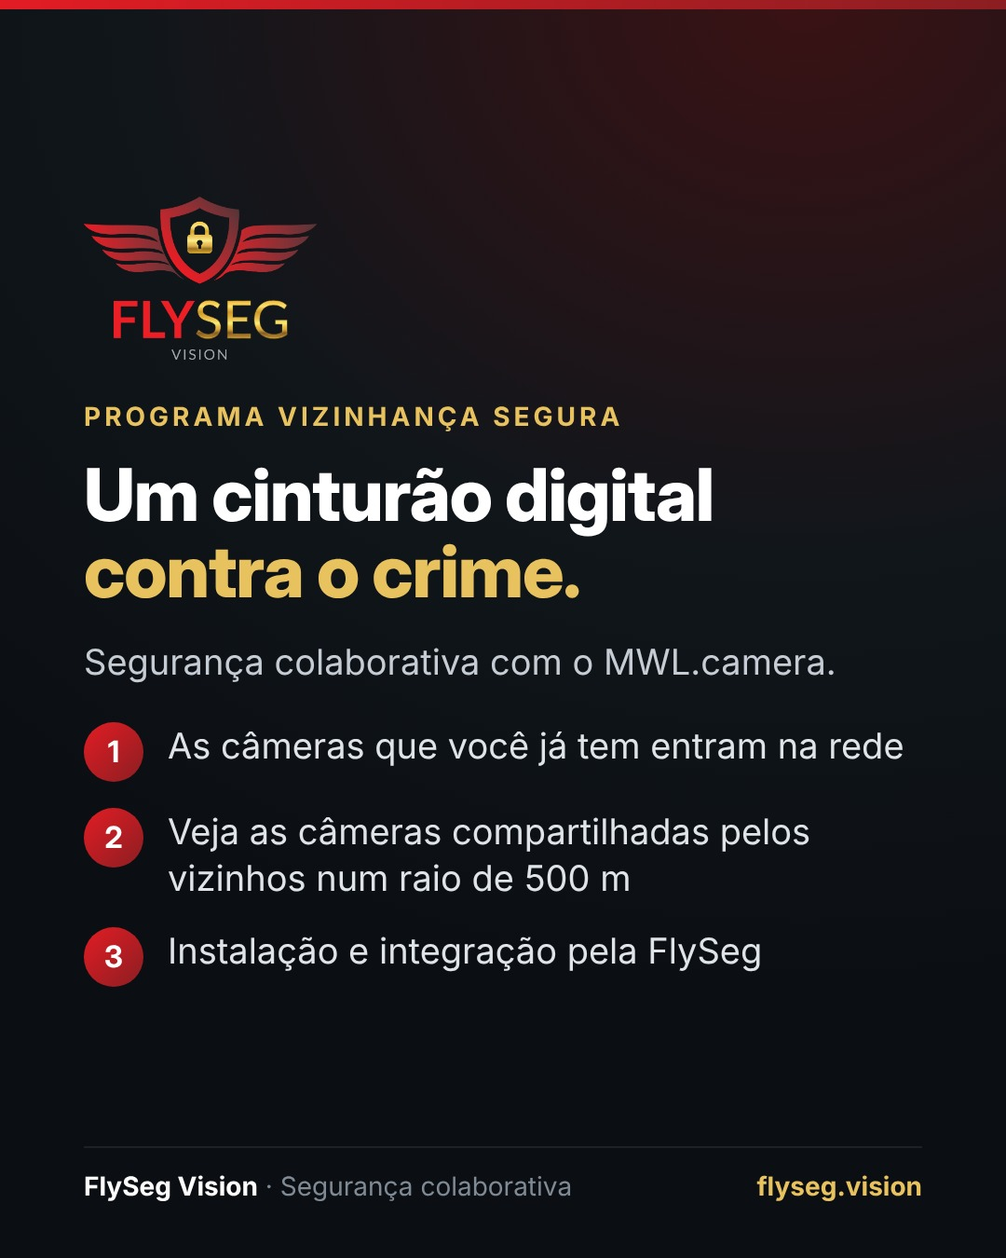
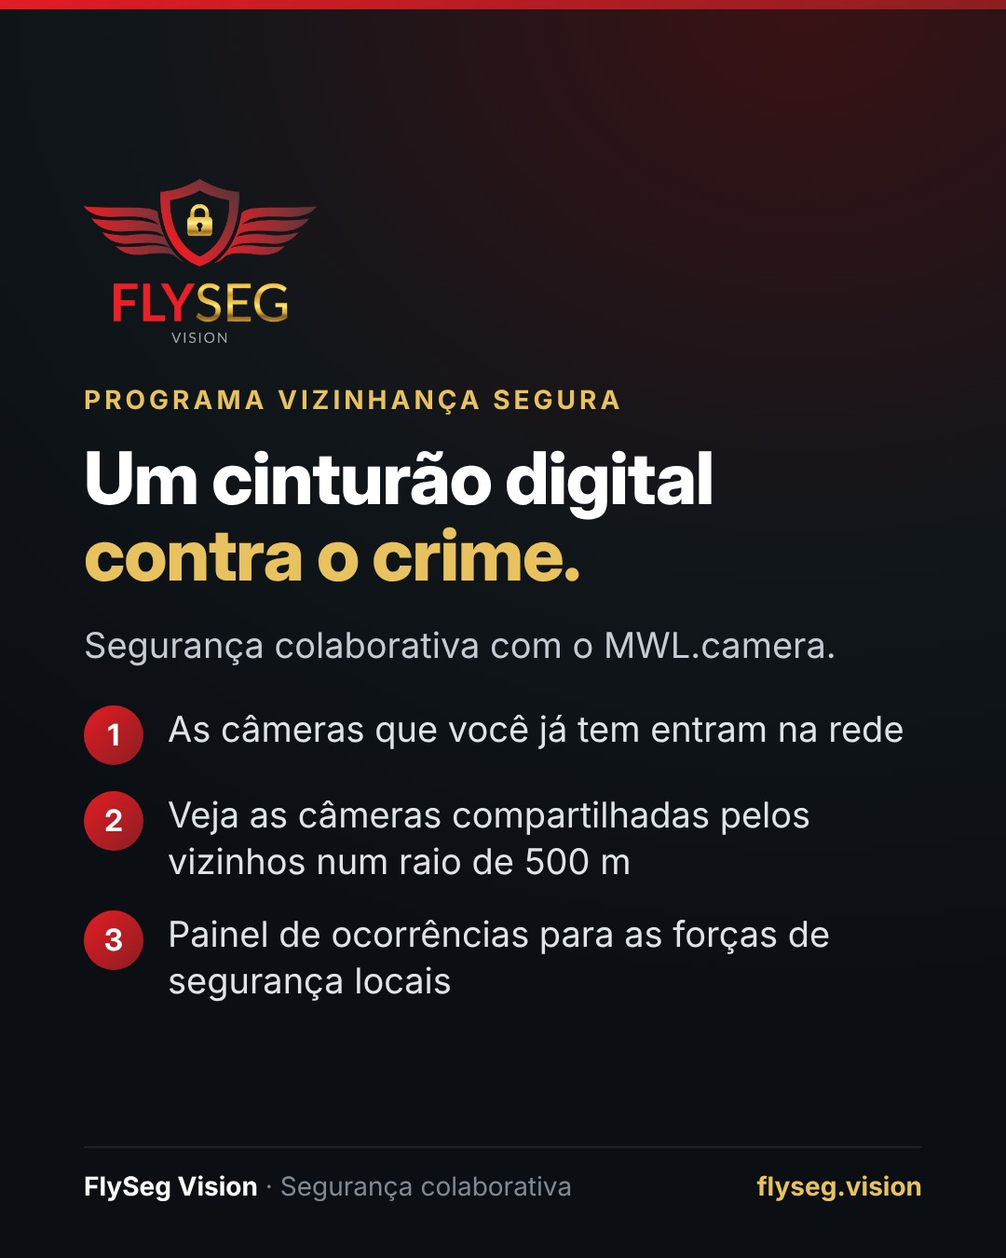
FlySeg: painel das forças de segurança do MWL.camera nos posts PVS e ODL e nos destaques
Claude-Session: https://claude.ai/code/session_013wqKux7qHbRAJMaH62mhbc

Changed region(s): [[0.0611, 0.3111, 0.8861, 0.8089], [0.0917, 0.1244, 0.3056, 0.28], [0.7944, 0.7156, 0.825, 0.7778]]

diff --git a/destaques-flyseg/story-odl-camera.html b/destaques-flyseg/story-odl-camera.html
@@ -8,5 +8,5 @@ h1{font-family:'Inter Display';font-weight:800;font-size:92px;line-height:1.04;l
 p{font-size:44px;line-height:1.4;color:#c5ccd3;margin-bottom:44px}
 ul{list-style:none;display:flex;flex-direction:column;gap:24px}
 li{font-size:40px;line-height:1.3;padding:26px 32px;background:rgba(233,194,96,.07);border:2px solid rgba(233,194,96,.35);border-left:10px solid #e31c24;border-radius:22px;color:#eef1f4}
-.cta{margin-top:auto;font-size:40px;font-weight:700;color:#e9c260}
-</style></head><body><div class="bar"></div><div class="w"><img class="logo" src="file:///home/claude/flycomp-midia/brand/flyseg-logo.png"><div class="ic"><svg width="100" height="100" viewBox="0 0 24 24" fill="none" stroke="#FFFFFF" stroke-width="1.6" stroke-linecap="round" stroke-linejoin="round"><path d="M16.75 12h3.632a1 1 0 0 1 .894 1.447l-2.034 4.069a1 1 0 0 1-1.708.134l-2.124-2.97"/><path d="M17.106 9.053a1 1 0 0 1 .447 1.341l-3.106 6.211a1 1 0 0 1-1.342.447L3.61 12.3a2.92 2.92 0 0 1-1.3-3.91L3.69 5.6a2.92 2.92 0 0 1 3.92-1.3z"/><path d="M2 19h3.76a2 2 0 0 0 1.8-1.1L9 15"/><path d="M2 21v-4"/><path d="M7 9h.01"/></svg></div><h1>ODL<span>.camera</span></h1><p>A segurança da rua num conjunto completo, criado pela FlySeg.</p><ul><li>Totem com visão 360° e versão fachada</li><li>Sirene e giroflex integrados</li><li>Full HD colorido à noite e 7 dias de gravação</li></ul><div class="cta">Fale com a gente pelo direct</div></div></body></html>
+.cta{margin-top:auto;padding-top:40px;font-size:40px;font-weight:700;color:#e9c260}
+</style></head><body><div class="bar"></div><div class="w"><img class="logo" src="file:///home/claude/flycomp-midia/brand/flyseg-logo.png"><div class="ic"><svg width="100" height="100" viewBox="0 0 24 24" fill="none" stroke="#FFFFFF" stroke-width="1.6" stroke-linecap="round" stroke-linejoin="round"><path d="M16.75 12h3.632a1 1 0 0 1 .894 1.447l-2.034 4.069a1 1 0 0 1-1.708.134l-2.124-2.97"/><path d="M17.106 9.053a1 1 0 0 1 .447 1.341l-3.106 6.211a1 1 0 0 1-1.342.447L3.61 12.3a2.92 2.92 0 0 1-1.3-3.91L3.69 5.6a2.92 2.92 0 0 1 3.92-1.3z"/><path d="M2 19h3.76a2 2 0 0 0 1.8-1.1L9 15"/><path d="M2 21v-4"/><path d="M7 9h.01"/></svg></div><h1>ODL<span>.camera</span></h1><p>A segurança da rua num conjunto completo, criado pela FlySeg.</p><ul><li>Totem com visão 360° e versão fachada</li><li>Sirene, giroflex e botão de emergência</li><li>Ocorrências no painel das forças de segurança</li></ul><div class="cta">Fale com a gente pelo direct</div></div></body></html>

diff --git a/social-flyseg/2026-11-seguranca-colaborativa/story.html b/social-flyseg/2026-11-seguranca-colaborativa/story.html
@@ -8,4 +8,4 @@ ol{list-style:none;display:flex;flex-direction:column}
 li{display:flex;align-items:flex-start;color:#dfe4e9;line-height:1.32}
 li b{border-radius:50%;background:linear-gradient(135deg,#e31c24,#8b1e22);display:flex;align-items:center;justify-content:center;color:#fff;font-family:'Inter Display';flex-shrink:0}
 .ft{position:absolute;display:flex;justify-content:space-between;align-items:center;color:#7f8a94;border-top:2px solid rgba(255,255,255,.08)}.ft b{color:#fff}.ft .g{color:#e9c260;font-weight:700}body{width:1080px;height:1920px}.w{left:90px;right:90px;top:250px;bottom:370px;justify-content:center}.logo{width:300px}.eb{font-size:32px}h1{font-size:96px}.s{font-size:44px}
-ol{gap:34px}li{gap:28px;font-size:44px}li b{width:76px;height:76px;font-size:38px}.cta{margin-top:56px;align-self:flex-start;padding:28px 46px;border-radius:20px;background:linear-gradient(90deg,#e31c24,#8b1e22);font-size:42px;font-weight:700}</style></head><body><div class="bar"></div><div class="w"><img class="logo" src="file:///home/claude/flyseg-posts/logo.png"><div class="eb">Programa Vizinhança Segura</div><h1>Um cinturão digital <span>contra o crime.</span></h1><p class="s">Segurança colaborativa com o MWL.camera.</p><ol><li><b>1</b><span>As câmeras que você já tem entram na rede</span></li><li><b>2</b><span>Veja as câmeras compartilhadas pelos vizinhos num raio de 500 m</span></li><li><b>3</b><span>Instalação e integração pela FlySeg</span></li></ol><div class="cta">Fale com a gente pelo direct</div></div></body></html>
+ol{gap:34px}li{gap:28px;font-size:44px}li b{width:76px;height:76px;font-size:38px}.cta{margin-top:56px;align-self:flex-start;padding:28px 46px;border-radius:20px;background:linear-gradient(90deg,#e31c24,#8b1e22);font-size:42px;font-weight:700}</style></head><body><div class="bar"></div><div class="w"><img class="logo" src="file:///home/claude/flyseg-posts/logo.png"><div class="eb">Programa Vizinhança Segura</div><h1>Um cinturão digital <span>contra o crime.</span></h1><p class="s">Segurança colaborativa com o MWL.camera.</p><ol><li><b>1</b><span>As câmeras que você já tem entram na rede</span></li><li><b>2</b><span>Veja as câmeras compartilhadas pelos vizinhos num raio de 500 m</span></li><li><b>3</b><span>Painel de ocorrências para as forças de segurança locais</span></li></ol><div class="cta">Fale com a gente pelo direct</div></div></body></html>

diff --git a/social-flyseg/2026-11-odl-camera/story.html b/social-flyseg/2026-11-odl-camera/story.html
@@ -8,4 +8,4 @@ ol{list-style:none;display:flex;flex-direction:column}
 li{display:flex;align-items:flex-start;color:#dfe4e9;line-height:1.32}
 li b{border-radius:50%;background:linear-gradient(135deg,#e31c24,#8b1e22);display:flex;align-items:center;justify-content:center;color:#fff;font-family:'Inter Display';flex-shrink:0}
 .ft{position:absolute;display:flex;justify-content:space-between;align-items:center;color:#7f8a94;border-top:2px solid rgba(255,255,255,.08)}.ft b{color:#fff}.ft .g{color:#e9c260;font-weight:700}body{width:1080px;height:1920px}.w{left:90px;right:90px;top:250px;bottom:370px;justify-content:center}.logo{width:300px}.eb{font-size:32px}h1{font-size:96px}.s{font-size:44px}
-ol{gap:34px}li{gap:28px;font-size:44px}li b{width:76px;height:76px;font-size:38px}.cta{margin-top:56px;align-self:flex-start;padding:28px 46px;border-radius:20px;background:linear-gradient(90deg,#e31c24,#8b1e22);font-size:42px;font-weight:700}</style></head><body><div class="bar"></div><div class="w"><img class="logo" src="file:///home/claude/flyseg-posts/logo.png"><div class="eb">ODL.camera</div><h1>A segurança da rua <span>num conjunto completo.</span></h1><p class="s">Totem com visão 360° e versão fachada, criados pela FlySeg.</p><ol><li><b>1</b><span>Sirene e giroflex integrados</span></li><li><b>2</b><span>Câmeras Full HD coloridas à noite e 7 dias de gravação</span></li><li><b>3</b><span>Integrado ao MWL.camera</span></li></ol><div class="cta">Fale com a gente pelo direct</div></div></body></html>
+ol{gap:34px}li{gap:28px;font-size:44px}li b{width:76px;height:76px;font-size:38px}.cta{margin-top:56px;align-self:flex-start;padding:28px 46px;border-radius:20px;background:linear-gradient(90deg,#e31c24,#8b1e22);font-size:42px;font-weight:700}</style></head><body><div class="bar"></div><div class="w"><img class="logo" src="file:///home/claude/flyseg-posts/logo.png"><div class="eb">ODL.camera</div><h1>A segurança da rua <span>num conjunto completo.</span></h1><p class="s">Totem com visão 360° e versão fachada, criados pela FlySeg.</p><ol><li><b>1</b><span>Sirene e giroflex integrados</span></li><li><b>2</b><span>Câmeras Full HD coloridas à noite e 7 dias de gravação</span></li><li><b>3</b><span>Ocorrências no MWL.camera e no painel das forças de segurança</span></li></ol><div class="cta">Fale com a gente pelo direct</div></div></body></html>

diff --git a/social-flyseg/2026-11-seguranca-colaborativa/resumo.html b/social-flyseg/2026-11-seguranca-colaborativa/resumo.html
@@ -8,4 +8,4 @@ ol{list-style:none;display:flex;flex-direction:column}
 li{display:flex;align-items:flex-start;color:#dfe4e9;line-height:1.32}
 li b{border-radius:50%;background:linear-gradient(135deg,#e31c24,#8b1e22);display:flex;align-items:center;justify-content:center;color:#fff;font-family:'Inter Display';flex-shrink:0}
 .ft{position:absolute;display:flex;justify-content:space-between;align-items:center;color:#7f8a94;border-top:2px solid rgba(255,255,255,.08)}.ft b{color:#fff}.ft .g{color:#e9c260;font-weight:700}body{width:1080px;height:1350px}.w{left:90px;right:90px;top:90px;bottom:170px;justify-content:center}.eb{font-size:28px}h1{font-size:78px}.s{font-size:38px}
-ol{gap:28px}li{gap:26px;font-size:38px}li b{width:64px;height:64px;font-size:32px}.ft{left:90px;right:90px;bottom:60px;padding-top:24px;font-size:28px}</style></head><body><div class="bar"></div><div class="w"><img class="logo" src="file:///home/claude/flyseg-posts/logo.png"><div class="eb">Programa Vizinhança Segura</div><h1>Um cinturão digital <span>contra o crime.</span></h1><p class="s">Segurança colaborativa com o MWL.camera.</p><ol><li><b>1</b><span>As câmeras que você já tem entram na rede</span></li><li><b>2</b><span>Veja as câmeras compartilhadas pelos vizinhos num raio de 500 m</span></li><li><b>3</b><span>Instalação e integração pela FlySeg</span></li></ol></div><div class="ft"><span><b>FlySeg Vision</b> · Segurança colaborativa</span><span class="g">flyseg.vision</span></div></body></html>
+ol{gap:28px}li{gap:26px;font-size:38px}li b{width:64px;height:64px;font-size:32px}.ft{left:90px;right:90px;bottom:60px;padding-top:24px;font-size:28px}</style></head><body><div class="bar"></div><div class="w"><img class="logo" src="file:///home/claude/flyseg-posts/logo.png"><div class="eb">Programa Vizinhança Segura</div><h1>Um cinturão digital <span>contra o crime.</span></h1><p class="s">Segurança colaborativa com o MWL.camera.</p><ol><li><b>1</b><span>As câmeras que você já tem entram na rede</span></li><li><b>2</b><span>Veja as câmeras compartilhadas pelos vizinhos num raio de 500 m</span></li><li><b>3</b><span>Painel de ocorrências para as forças de segurança locais</span></li></ol></div><div class="ft"><span><b>FlySeg Vision</b> · Segurança colaborativa</span><span class="g">flyseg.vision</span></div></body></html>

diff --git a/social-flyseg/2026-11-odl-camera/resumo.html b/social-flyseg/2026-11-odl-camera/resumo.html
@@ -8,4 +8,4 @@ ol{list-style:none;display:flex;flex-direction:column}
 li{display:flex;align-items:flex-start;color:#dfe4e9;line-height:1.32}
 li b{border-radius:50%;background:linear-gradient(135deg,#e31c24,#8b1e22);display:flex;align-items:center;justify-content:center;color:#fff;font-family:'Inter Display';flex-shrink:0}
 .ft{position:absolute;display:flex;justify-content:space-between;align-items:center;color:#7f8a94;border-top:2px solid rgba(255,255,255,.08)}.ft b{color:#fff}.ft .g{color:#e9c260;font-weight:700}body{width:1080px;height:1350px}.w{left:90px;right:90px;top:90px;bottom:170px;justify-content:center}.eb{font-size:28px}h1{font-size:78px}.s{font-size:38px}
-ol{gap:28px}li{gap:26px;font-size:38px}li b{width:64px;height:64px;font-size:32px}.ft{left:90px;right:90px;bottom:60px;padding-top:24px;font-size:28px}</style></head><body><div class="bar"></div><div class="w"><img class="logo" src="file:///home/claude/flyseg-posts/logo.png"><div class="eb">ODL.camera</div><h1>A segurança da rua <span>num conjunto completo.</span></h1><p class="s">Totem com visão 360° e versão fachada, criados pela FlySeg.</p><ol><li><b>1</b><span>Sirene e giroflex integrados</span></li><li><b>2</b><span>Câmeras Full HD coloridas à noite e 7 dias de gravação</span></li><li><b>3</b><span>Integrado ao MWL.camera</span></li></ol></div><div class="ft"><span><b>FlySeg Vision</b> · Segurança colaborativa</span><span class="g">flyseg.vision</span></div></body></html>
+ol{gap:28px}li{gap:26px;font-size:38px}li b{width:64px;height:64px;font-size:32px}.ft{left:90px;right:90px;bottom:60px;padding-top:24px;font-size:28px}</style></head><body><div class="bar"></div><div class="w"><img class="logo" src="file:///home/claude/flyseg-posts/logo.png"><div class="eb">ODL.camera</div><h1>A segurança da rua <span>num conjunto completo.</span></h1><p class="s">Totem com visão 360° e versão fachada, criados pela FlySeg.</p><ol><li><b>1</b><span>Sirene e giroflex integrados</span></li><li><b>2</b><span>Câmeras Full HD coloridas à noite e 7 dias de gravação</span></li><li><b>3</b><span>Ocorrências no MWL.camera e no painel das forças de segurança</span></li></ol></div><div class="ft"><span><b>FlySeg Vision</b> · Segurança colaborativa</span><span class="g">flyseg.vision</span></div></body></html>

diff --git a/destaques-flyseg/story-vizinhanca-segura.html b/destaques-flyseg/story-vizinhanca-segura.html
@@ -8,5 +8,5 @@ h1{font-family:'Inter Display';font-weight:800;font-size:92px;line-height:1.04;l
 p{font-size:44px;line-height:1.4;color:#c5ccd3;margin-bottom:44px}
 ul{list-style:none;display:flex;flex-direction:column;gap:24px}
 li{font-size:40px;line-height:1.3;padding:26px 32px;background:rgba(233,194,96,.07);border:2px solid rgba(233,194,96,.35);border-left:10px solid #e31c24;border-radius:22px;color:#eef1f4}
-.cta{margin-top:auto;font-size:40px;font-weight:700;color:#e9c260}
-</style></head><body><div class="bar"></div><div class="w"><img class="logo" src="file:///home/claude/flycomp-midia/brand/flyseg-logo.png"><div class="ic"><svg width="100" height="100" viewBox="0 0 24 24" fill="none" stroke="#FFFFFF" stroke-width="1.6" stroke-linecap="round" stroke-linejoin="round"><path d="M16 21v-2a4 4 0 0 0-4-4H6a4 4 0 0 0-4 4v2"/><circle cx="9" cy="7" r="4"/><path d="M22 21v-2a4 4 0 0 0-3-3.87"/><path d="M16 3.13a4 4 0 0 1 0 7.75"/></svg></div><h1>Programa <span>Vizinhança Segura</span></h1><p>Um cinturão digital contra o crime, rua por rua.</p><ul><li>As câmeras que você já tem entram no MWL.camera</li><li>Veja as câmeras dos vizinhos num raio de 500 m</li><li>Instalação e integração pela FlySeg</li></ul><div class="cta">Fale com a gente pelo direct</div></div></body></html>
+.cta{margin-top:auto;padding-top:40px;font-size:40px;font-weight:700;color:#e9c260}
+</style></head><body><div class="bar"></div><div class="w"><img class="logo" src="file:///home/claude/flycomp-midia/brand/flyseg-logo.png"><div class="ic"><svg width="100" height="100" viewBox="0 0 24 24" fill="none" stroke="#FFFFFF" stroke-width="1.6" stroke-linecap="round" stroke-linejoin="round"><path d="M16 21v-2a4 4 0 0 0-4-4H6a4 4 0 0 0-4 4v2"/><circle cx="9" cy="7" r="4"/><path d="M22 21v-2a4 4 0 0 0-3-3.87"/><path d="M16 3.13a4 4 0 0 1 0 7.75"/></svg></div><h1>Programa <span>Vizinhança Segura</span></h1><p>Um cinturão digital contra o crime, rua por rua.</p><ul><li>As câmeras que você já tem entram no MWL.camera</li><li>Veja as câmeras dos vizinhos num raio de 500 m</li><li>Painel para as forças de segurança locais</li></ul><div class="cta">Fale com a gente pelo direct</div></div></body></html>

diff --git a/social-flyseg/2026-11-odl-camera/slide4.html b/social-flyseg/2026-11-odl-camera/slide4.html
@@ -23,4 +23,4 @@ ol li b{flex:0 0 74px;height:74px;border-radius:50%;background:linear-gradient(1
 .cta{display:inline-block;margin-top:50px;padding:26px 44px;border-radius:18px;background:linear-gradient(90deg,#e31c24,#8b1e22);font-size:40px;font-weight:700}
 .center{justify-content:center}
 </style></head><body><div class="bar"></div>
-<div class="wrap"><div class="eyebrow">Na prática</div><h2>Resposta na hora.</h2><ol><li><b>1</b><span>O botão de emergência aciona sirene e giroflex no local.</span></li><li><b>2</b><span>A ocorrência entra no <span class="gold">MWL.camera</span> com a gravação anexada.</span></li><li><b>3</b><span>Você e seus vizinhos acompanham tudo pelo <span class="gold">celular</span>.</span></li></ol></div><div class="foot"><span><b>FlySeg Vision</b> · Segurança colaborativa</span><span class="sw">Arraste →&nbsp;&nbsp;4/5</span></div></body></html>
+<div class="wrap"><div class="eyebrow">Na prática</div><h2>Resposta na hora.</h2><ol><li><b>1</b><span>O botão de emergência aciona sirene e giroflex no local.</span></li><li><b>2</b><span>A ocorrência entra no <span class="gold">MWL.camera</span> com a gravação anexada.</span></li><li><b>3</b><span>A ocorrência aparece no painel das <span class="gold">forças de segurança</span> da região que aderiram.</span></li></ol></div><div class="foot"><span><b>FlySeg Vision</b> · Segurança colaborativa</span><span class="sw">Arraste →&nbsp;&nbsp;4/5</span></div></body></html>

diff --git a/destaques-flyseg/story-sobre.html b/destaques-flyseg/story-sobre.html
@@ -8,5 +8,5 @@ h1{font-family:'Inter Display';font-weight:800;font-size:92px;line-height:1.04;l
 p{font-size:44px;line-height:1.4;color:#c5ccd3;margin-bottom:44px}
 ul{list-style:none;display:flex;flex-direction:column;gap:24px}
 li{font-size:40px;line-height:1.3;padding:26px 32px;background:rgba(233,194,96,.07);border:2px solid rgba(233,194,96,.35);border-left:10px solid #e31c24;border-radius:22px;color:#eef1f4}
-.cta{margin-top:auto;font-size:40px;font-weight:700;color:#e9c260}
+.cta{margin-top:auto;padding-top:40px;font-size:40px;font-weight:700;color:#e9c260}
 </style></head><body><div class="bar"></div><div class="w"><img class="logo" src="file:///home/claude/flycomp-midia/brand/flyseg-logo.png"><div class="ic"><svg width="100" height="100" viewBox="0 0 24 24" fill="none" stroke="#FFFFFF" stroke-width="1.6" stroke-linecap="round" stroke-linejoin="round"><path d="M20 13c0 5-3.5 7.5-7.66 8.95a1 1 0 0 1-.67-.01C7.5 20.5 4 18 4 13V6a1 1 0 0 1 1-1c2 0 4.5-1.2 6.24-2.72a1.17 1.17 0 0 1 1.52 0C14.51 3.81 17 5 19 5a1 1 0 0 1 1 1z"/><path d="m9 12 2 2 4-4"/></svg></div><h1>Sobre a <span>FlySeg</span></h1><p>Segurança colaborativa de verdade.</p><ul><li>Pioneira na integração com o MWL.camera</li><li>Criadora do ODL.camera</li><li>Venda, instalação e locação</li></ul><div class="cta">Fale com a gente pelo direct</div></div></body></html>

diff --git a/destaques-flyseg/story-contato.html b/destaques-flyseg/story-contato.html
@@ -8,5 +8,5 @@ h1{font-family:'Inter Display';font-weight:800;font-size:92px;line-height:1.04;l
 p{font-size:44px;line-height:1.4;color:#c5ccd3;margin-bottom:44px}
 ul{list-style:none;display:flex;flex-direction:column;gap:24px}
 li{font-size:40px;line-height:1.3;padding:26px 32px;background:rgba(233,194,96,.07);border:2px solid rgba(233,194,96,.35);border-left:10px solid #e31c24;border-radius:22px;color:#eef1f4}
-.cta{margin-top:auto;font-size:40px;font-weight:700;color:#e9c260}
+.cta{margin-top:auto;padding-top:40px;font-size:40px;font-weight:700;color:#e9c260}
 </style></head><body><div class="bar"></div><div class="w"><img class="logo" src="file:///home/claude/flycomp-midia/brand/flyseg-logo.png"><div class="ic"><svg width="100" height="100" viewBox="0 0 24 24" fill="none" stroke="#FFFFFF" stroke-width="1.6" stroke-linecap="round" stroke-linejoin="round"><path d="M7.9 20A9 9 0 1 0 4 16.1L2 22Z"/></svg></div><h1>Fale com <span>a gente</span></h1><p>Atendimento comercial da FlySeg Vision.</p><ul><li>Direct aqui do Instagram</li><li>WhatsApp (11) 4283-7330</li><li>flyseg.vision</li></ul><div class="cta"></div></div></body></html>

diff --git a/destaques-flyseg/gerar.py b/destaques-flyseg/gerar.py
@@ -11,8 +11,8 @@ I={
 }
 def svg(k,size,color): return f'<svg width="{size}" height="{size}" viewBox="0 0 24 24" fill="none" stroke="{color}" stroke-width="1.6" stroke-linecap="round" stroke-linejoin="round">{I[k]}</svg>'
 D=[
-("vizinhanca-segura","users","Programa <span>Vizinhança Segura</span>","Um cinturão digital contra o crime, rua por rua.",["As câmeras que você já tem entram no MWL.camera","Veja as câmeras dos vizinhos num raio de 500 m","Instalação e integração pela FlySeg"]),
-("odl-camera","cctv","ODL<span>.camera</span>","A segurança da rua num conjunto completo, criado pela FlySeg.",["Totem com visão 360° e versão fachada","Sirene e giroflex integrados","Full HD colorido à noite e 7 dias de gravação"]),
+("vizinhanca-segura","users","Programa <span>Vizinhança Segura</span>","Um cinturão digital contra o crime, rua por rua.",["As câmeras que você já tem entram no MWL.camera","Veja as câmeras dos vizinhos num raio de 500 m","Painel para as forças de segurança locais"]),
+("odl-camera","cctv","ODL<span>.camera</span>","A segurança da rua num conjunto completo, criado pela FlySeg.",["Totem com visão 360° e versão fachada","Sirene, giroflex e botão de emergência","Ocorrências no painel das forças de segurança"]),
 ("sobre","shield","Sobre a <span>FlySeg</span>","Segurança colaborativa de verdade.",["Pioneira na integração com o MWL.camera","Criadora do ODL.camera","Venda, instalação e locação"]),
 ("contato","chat","Fale com <span>a gente</span>","Atendimento comercial da FlySeg Vision.",["Direct aqui do Instagram","WhatsApp (11) 4283-7330","flyseg.vision"]),
 ]
@@ -28,7 +28,7 @@ h1{font-family:'Inter Display';font-weight:800;font-size:92px;line-height:1.04;l
 p{font-size:44px;line-height:1.4;color:#c5ccd3;margin-bottom:44px}
 ul{list-style:none;display:flex;flex-direction:column;gap:24px}
 li{font-size:40px;line-height:1.3;padding:26px 32px;background:rgba(233,194,96,.07);border:2px solid rgba(233,194,96,.35);border-left:10px solid #e31c24;border-radius:22px;color:#eef1f4}
-.cta{margin-top:auto;font-size:40px;font-weight:700;color:#e9c260}
+.cta{margin-top:auto;padding-top:40px;font-size:40px;font-weight:700;color:#e9c260}
 </style></head><body><div class="bar"></div><div class="w"><img class="logo" src="{LOGO}"><div class="ic">{ICON}</div><h1>{T}</h1><p>{P}</p><ul>{LI}</ul><div class="cta">{CTA}</div></div></body></html>"""
 async def main():
     async with async_playwright() as p:

diff --git a/social-flyseg/gerar.py b/social-flyseg/gerar.py
@@ -47,7 +47,7 @@ POSTS = {
   f'<img class="logo" src="{LOGO}"><div class="eyebrow">ODL.camera</div><h1>A segurança da rua <span class="gold">num conjunto completo.</span></h1><p class="sub">Totem e versão fachada criados pela FlySeg, integrados ao MWL.camera.</p>',
   '<div class="eyebrow">Duas versões</div><h2>Para a calçada e para a fachada.</h2><div class="card"><h3>Totem: visão 360°</h3><p>3 câmeras simultâneas e mais uma dedicada à calçada e aos portões.</p></div><div class="card"><h3>Fachada (box)</h3><p>2 câmeras com áudio bidirecional, no formato do seu imóvel.</p></div>',
   '<div class="eyebrow">Sempre no conjunto</div><h2>Feito para inibir.</h2><ol><li><b>1</b><span><span class="gold">Sirene e giroflex</span> integrados.</span></li><li><b>2</b><span>Câmeras <span class="gold">Full HD</span> que filmam colorido à noite.</span></li><li><b>3</b><span><span class="gold">7 dias</span> de gravação.</span></li><li><b>4</b><span>Iluminação âmbar à noite. Nobreak opcional.</span></li></ol>',
-  '<div class="eyebrow">Na prática</div><h2>Resposta na hora.</h2><ol><li><b>1</b><span>O botão de emergência aciona sirene e giroflex no local.</span></li><li><b>2</b><span>A ocorrência entra no <span class="gold">MWL.camera</span> com a gravação anexada.</span></li><li><b>3</b><span>Você e seus vizinhos acompanham tudo pelo <span class="gold">celular</span>.</span></li></ol>',
+  '<div class="eyebrow">Na prática</div><h2>Resposta na hora.</h2><ol><li><b>1</b><span>O botão de emergência aciona sirene e giroflex no local.</span></li><li><b>2</b><span>A ocorrência entra no <span class="gold">MWL.camera</span> com a gravação anexada.</span></li><li><b>3</b><span>A ocorrência aparece no painel das <span class="gold">forças de segurança</span> da região que aderiram.</span></li></ol>',
   f'<div class="center" style="display:flex;flex-direction:column;height:100%"><img class="logo big" src="{LOGO}"><h2>Sem custo de equipamento.</h2><p class="t">Assinatura mensal com o conjunto completo instalado.</p><span class="cta">Fale com a gente pelo direct</span></div>',
  ],
  "vision-soc-integradores": [

diff --git a/social-flyseg/gerar_extra.py b/social-flyseg/gerar_extra.py
@@ -16,8 +16,8 @@ ol{gap:28px}li{gap:26px;font-size:38px}li b{width:64px;height:64px;font-size:32p
 STORY=CSS_BASE+"""body{width:1080px;height:1920px}.w{left:90px;right:90px;top:250px;bottom:370px;justify-content:center}.logo{width:300px}.eb{font-size:32px}h1{font-size:96px}.s{font-size:44px}
 ol{gap:34px}li{gap:28px;font-size:44px}li b{width:76px;height:76px;font-size:38px}.cta{margin-top:56px;align-self:flex-start;padding:28px 46px;border-radius:20px;background:linear-gradient(90deg,#e31c24,#8b1e22);font-size:42px;font-weight:700}"""
 POSTS={
-"seguranca-colaborativa":("Programa Vizinhança Segura","Um cinturão digital <span>contra o crime.</span>","Segurança colaborativa com o MWL.camera.",["As câmeras que você já tem entram na rede","Veja as câmeras compartilhadas pelos vizinhos num raio de 500 m","Instalação e integração pela FlySeg"]),
-"odl-camera":("ODL.camera","A segurança da rua <span>num conjunto completo.</span>","Totem com visão 360° e versão fachada, criados pela FlySeg.",["Sirene e giroflex integrados","Câmeras Full HD coloridas à noite e 7 dias de gravação","Integrado ao MWL.camera"]),
+"seguranca-colaborativa":("Programa Vizinhança Segura","Um cinturão digital <span>contra o crime.</span>","Segurança colaborativa com o MWL.camera.",["As câmeras que você já tem entram na rede","Veja as câmeras compartilhadas pelos vizinhos num raio de 500 m","Painel de ocorrências para as forças de segurança locais"]),
+"odl-camera":("ODL.camera","A segurança da rua <span>num conjunto completo.</span>","Totem com visão 360° e versão fachada, criados pela FlySeg.",["Sirene e giroflex integrados","Câmeras Full HD coloridas à noite e 7 dias de gravação","Ocorrências no MWL.camera e no painel das forças de segurança"]),
 "vision-soc-integradores":("Para integradores","Monitoramento 24h <span>com a sua marca.</span>","Vision SOC white label, sem montar central.",["Você vende e atende o seu cliente","A central acompanha as ocorrências do MWL.camera 24h","Planos e preços em flyseg.vision"]),
 }
 def body(eb,t,s,itens,css,story):
